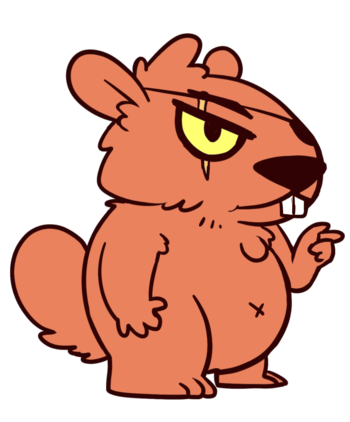
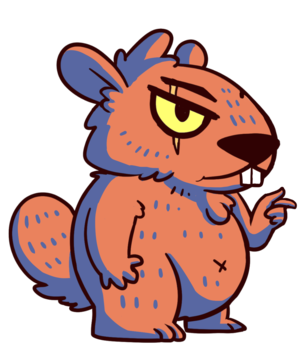
Reposicionamento do HUD com mood animado

diff --git a/src/StageState.cpp b/src/StageState.cpp
@@ -31,8 +31,7 @@ void StageState::noEffect(void *udata, Uint8 *stream, int len) {
 }
 
 void StageState::LoadAssets() {
-    Camera::pos.Set(-(Camera::screenSize.x - 600 - 140), 0);
-
+    Camera::pos.Set(-(Camera::screenSize.x - 600 - 120), 0);
     GameObject *gm = new GameObject();
     objectArray.emplace_back(gm);
     tileSet =
@@ -56,9 +55,9 @@ void StageState::LoadAssets() {
     Camera::Follow(alan);
 
     GameObject *MiniMapTile = new GameObject(Common::Layer::HUD);
-    MiniMapTile->box.pos = {600 + 284 + 20, 84};
+    MiniMapTile->box.pos = {1024 - 6 * 15, 500};
     TileSet *minitileSet =
-        new TileSet(20, 20, "assets/img/GroundhogAlanMap.png");
+        new TileSet(15, 15, "assets/img/GroundhogAlanMap.png");
 
     MiniTileMap *miniTilemap =
         new MiniTileMap(*MiniMapTile, minitileSet, tileMap, lilAlan);
@@ -67,10 +66,10 @@ void StageState::LoadAssets() {
 
     GameObject *bigAlan = new GameObject(Common::Layer::HUD);
     objectArray.emplace_back(bigAlan);
-    bigAlan->AddComponent(new Sprite(*bigAlan, "assets/img/mood2.png"));
+    bigAlan->AddComponent(new Sprite(*bigAlan, "assets/img/mooda.png", 2, -1));
     bigAlan->AddComponent(new BigAlan(*bigAlan));
     bigAlan->worldReference = false;
-    bigAlan->box.pos = {-30, 370};
+    bigAlan->box.pos = {0, 460};
 
     music.Open("assets/audio/marmota.ogg");
     count = 0;

diff --git a/include/BigAlan.h b/include/BigAlan.h
@@ -15,7 +15,7 @@ class BigAlan : public Component {
     bool Is(const std::string& type) const { return !type.compare("BigAlan"); }
 
   private:
-    int offset = 20;
+    int offset = 0;
 };
 
 #endif  // BIGALAN_H
